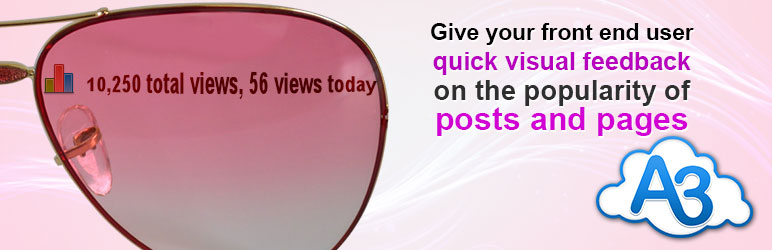
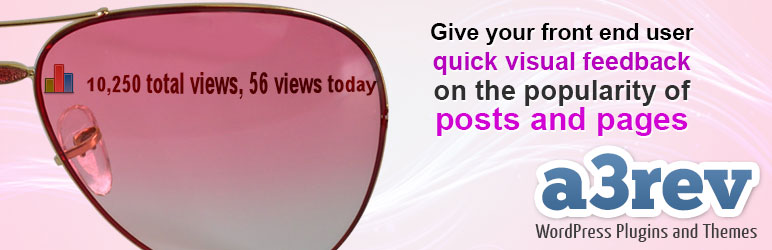
update to new version 1.0.1
git-svn-id: https://plugins.svn.wordpress.org/page-views-count/trunk@650541 b8457f37-d9ea-0310-8a92-e5e31aec5664

Changed region(s): [[0.6839, 0.532, 0.9948, 0.98]]

diff --git a/pvc_settings.php b/pvc_settings.php
@@ -91,7 +91,9 @@ class A3_PVC_Settings{
 	
 	function other_plugins_notice() {
 		$html = '';
-		$html .= '<div id="a3rev_plugins_notice"><h3>'.__('Help spead the Word about this plugin', 'pvc').'</h3>';
+		$html .= '<div id="a3rev_plugins_notice">';
+		$html .= '<a href="http://a3rev.com/shop/" target="_blank" style="float:right;margin-top:5px; margin-left:10px;" ><img src="'.A3_PVC_URL.'/a3logo.png" /></a>';
+		$html .= '<h3>'.__('Help spread the Word about this plugin', 'pvc').'</h3>';
 		$html .= '<p>'.__("Things you can do to help others find this plugin", 'pvc');
 		$html .= '<ul style="padding-left:10px;">';
 		$html .= '<li>* <a href="http://wordpress.org/extend/plugins/page-views-count/" target="_blank">'.__('Rate this plugin 5', 'pvc').' <img src="'.A3_PVC_URL.'/stars.png" align="top" /> '.__('on WordPress.org', 'pvc').'</a></li>';
@@ -113,9 +115,10 @@ class A3_PVC_Settings{
 		$html .= '<li>* <a href="http://wordpress.org/extend/plugins/woocommerce-predictive-search/" target="_blank">'.__('WooCommerce Predictive Search', 'pvc').'</a></li>';
 		$html .= '<li>* <a href="http://wordpress.org/extend/plugins/woocommerce-compare-products/" target="_blank">'.__('WooCommerce Compare Products', 'pvc').'</a></li>';
 		$html .= '<li>* <a href="http://wordpress.org/extend/plugins/woo-widget-product-slideshow/" target="_blank">'.__('WooCommerce Widget Product Slideshow', 'pvc').'</a></li>';
-		$html .= '<li>* <a href="http://a3rev.com/products-page/woocommerce/woo-email-inquiry-and-cart-options/" target="_blank">'.__('WooCommerce Email Inquiry & Cart Options (Pro Version only fro the A3 Rev site)', 'pvc').'</a></li>';
+		$html .= '<li>* <a href="http://a3rev.com/shop/woocommerce-email-inquiry-and-cart-options/" target="_blank">'.__('WooCommerce Email Inquiry & Cart Options', 'pvc').'</a>'.__(' - Pro Version only from a3rev', 'pvc').'</li>';
 		$html .= '</ul>';
 		$html .= '</p>';
+		
 		$html .= '<h3>'.__('WP e-Commerce Plugins', 'pvc').'</h3>';
 		$html .= '<p>';
 		$html .= '<ul style="padding-left:10px;">';

diff --git a/page-views-count.php b/page-views-count.php
@@ -2,7 +2,7 @@
 /*
 Plugin Name: Page Views Count
 Description: Show front end users all time views and views today on posts, pages, index pages and custom post types with the Page Views Count Plugin. Use the Page Views Count function to add page views to any content type or object created by your theme or plugins.
-Version: 1.0.0
+Version: 1.0.1
 Requires at least: 3.0
 Tested up to: 3.5
 Author: A3 Revolution
